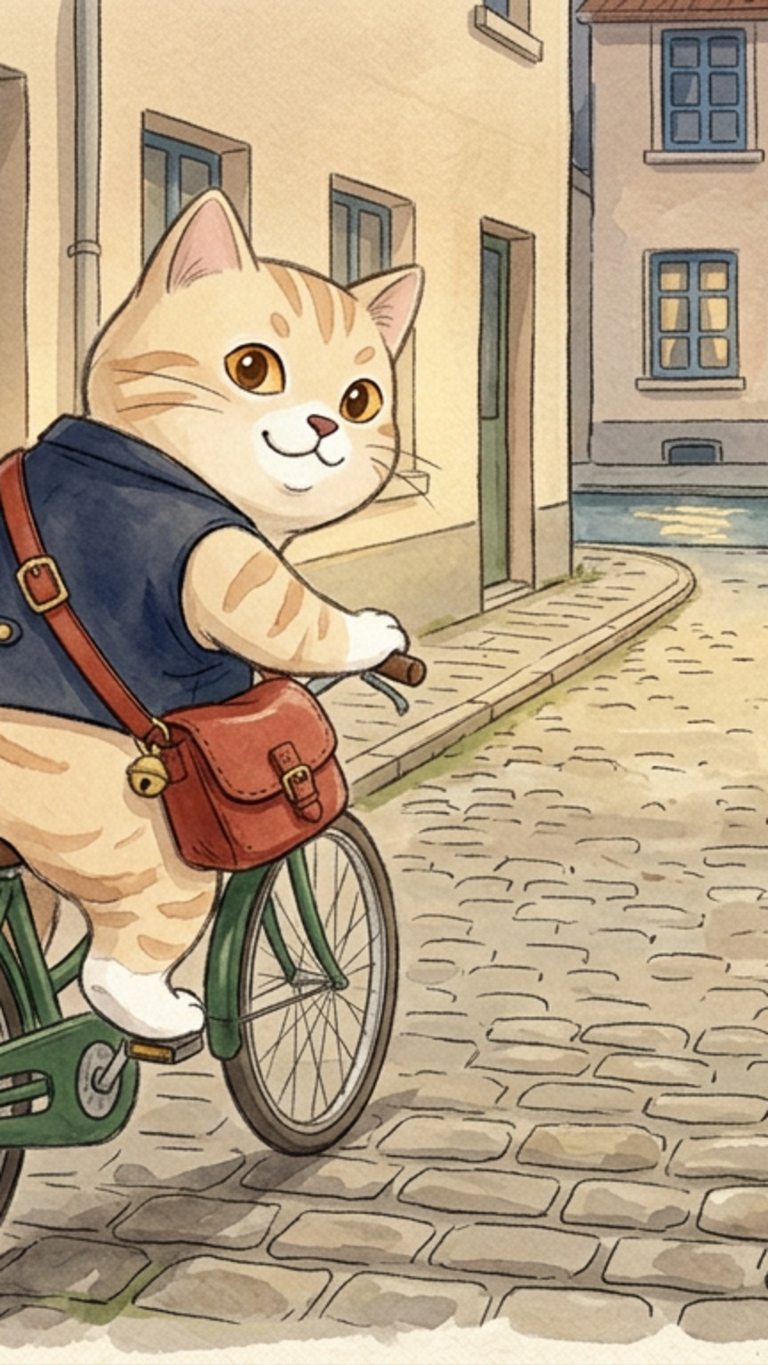
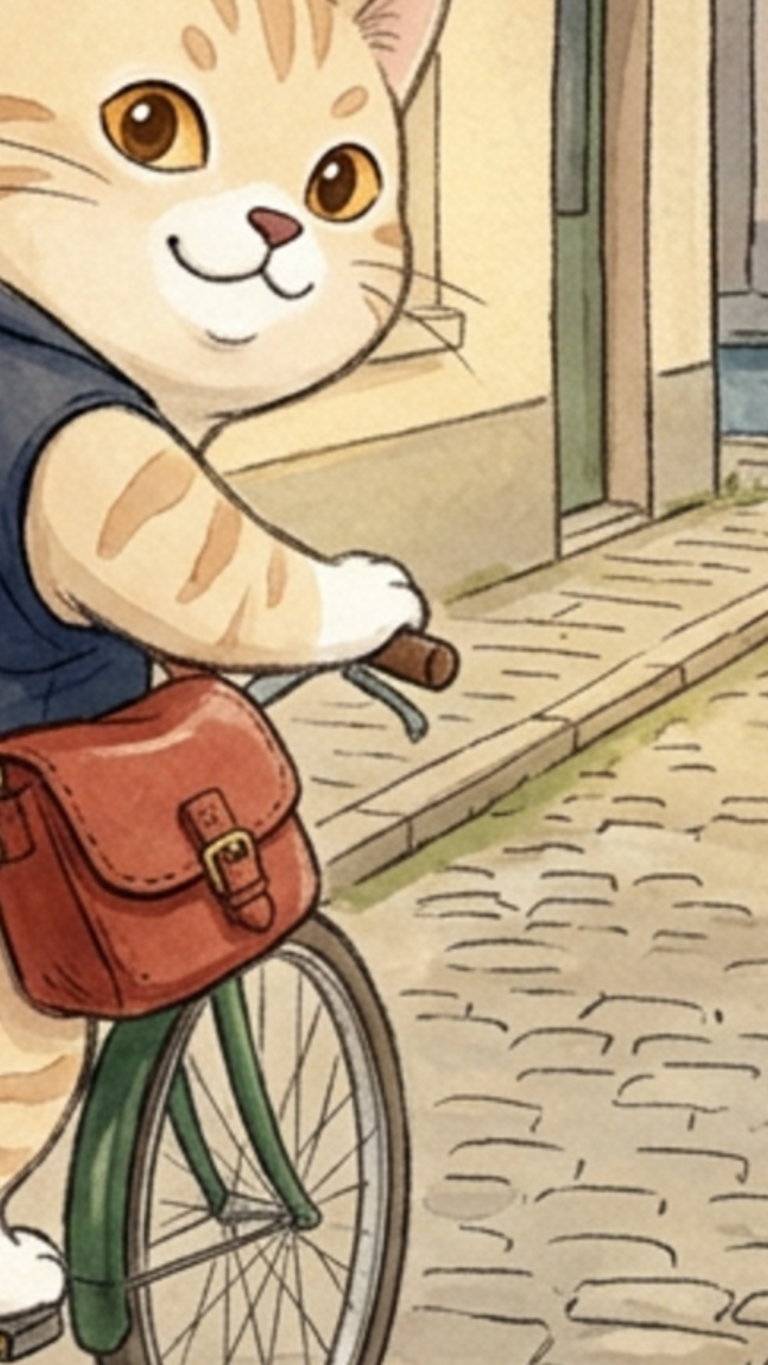
feat(production): complete visual assets for both episodes

diff --git a/sistem-konten-kreator/_produksi-aktif/kantor-pos-miso-surat-salah-alamat/CATATAN-ASSET.md b/sistem-konten-kreator/_produksi-aktif/kantor-pos-miso-surat-salah-alamat/CATATAN-ASSET.md
@@ -1,28 +1,28 @@
 # Catatan Aset — kantor-pos-miso-surat-salah-alamat
 
-**Tahap:** 5 — Generate/Acquire Assets (parsial)  
-**Tanggal:** 2026-09-13 lokal / 2026-09-12 UTC  
-**Sumber:** prompt + referensi dari `breakdown-output.md`; seluruh aset sudah dicrop ke 9:16 portrait 768×1365 menggunakan ImageMagick setelah hasil generator keluar landscape.
+**Tahap:** 5 — Generate/Acquire Assets (selesai; menunggu G1)  
+**Tanggal:** 2026-09-13 lokal  
+**Sumber:** prompt + referensi dari `breakdown-output.md`; hasil generator diaudit dan dinormalisasi ke portrait 9:16 `768×1365` menggunakan ImageMagick.
 
 ## Aset tersimpan
 
-| File | Ukuran final | SHA-256 (12) | Audit awal |
+| File | Ukuran final | SHA-256 (12) | Audit |
 |---|---:|---|---|
-| `A-S1-kantor-pos-amplop.png` | 768×1365 | `bf307b08b648` | `tersimpan` |
-| `A-S2-laci-surat.png` | 768×1365 | `8f86882b9c86` | `tersimpan` |
-| `A-S3-rumah-no18.png` | 768×1365 | `4d9a896da4c7` | `tersimpan` |
-| `A-S4-cap-dan-kanal.png` | 768×1365 | `dbca7cba5762` | `tersimpan` |
-| `A-S5-jembatan-kanal.png` | 768×1365 | `dd96d6bdb243` | `tersimpan` |
-| `A-S6-pintu-jendela-biru.png` | 768×1365 | `cc9c340c47c7` | `tersimpan` |
-| `A-S7-pulang-senja.png` | 768×1365 | `17a3dc6866a4` | `tersimpan` |
+| `A-S1-kantor-pos-amplop.png` | 768×1365 | `822a63e69358` | `Lolos audit awal` |
+| `A-S2-laci-surat.png` | 768×1365 | `a83e7209c55e` | `Lolos audit awal` |
+| `A-S3-rumah-no18.png` | 768×1365 | `e0cf8272b089` | `Lolos audit awal` |
+| `A-S4-cap-dan-kanal.png` | 768×1365 | `4203f8ed13e5` | `Lolos audit awal` |
+| `A-S5-jembatan-kanal.png` | 768×1365 | `149bc0a0bc05` | `Lolos audit awal` |
+| `A-S6-pintu-jendela-biru.png` | 768×1365 | `689018ee0f58` | `Lolos audit awal` |
+| `A-S7-pulang-senja.png` | 768×1365 | `14108972a8e6` | `Lolos audit awal` |
 
-## Audit awal
+## Audit visual
 
-- Semua file tersimpan sebagai PNG dan memakai referensi Bank Konsistensi Visual yang ditetapkan pada breakdown.
-- Tidak ditemukan logo/merek nyata atau kekerasan/horror pada aset yang tersimpan. Tulisan/label yang terlihat pada hasil generator diperlakukan sebagai tidak boleh terbaca; B-S4 v1 ditolak dan tidak dipakai.
-- A-S6 sudah lolos identitas visual tetapi framing crop portrait memotong sebagian tubuh Miso di tepi kanan; perlu ditinjau/regenerate sebelum G1 Tahap 5.
-- Tidak ada aset tertunda pada episode ini.
+- Identitas Miso, palet, properti utama, dan setting Kota Kanala konsisten. A-S6 versi final menempatkan Miso dan kedua Tipe B tetap terlihat dalam crop portrait.
+- Tidak ada logo/merek nyata, horror, kekerasan, atau teks terbaca yang dipakai sebagai elemen cerita. Tulisan pada surat, tanggal, dan alamat tetap tidak diandalkan secara visual.
+- A-S6 versi awal ditandai framing kurang baik; digenerate ulang dengan komposisi portrait-safe dan dipakai sebagai versi final.
+- Semua hasil final tersimpan di folder `assets/`; tidak ada aset tertunda.
 
 ## Status G1 Tahap 5
 
-Belum diminta. G1 baru diajukan setelah seluruh 14 aset tersedia, diaudit, dan framing portrait/regenerasi yang diperlukan selesai.
+Belum diminta. G1 akan diajukan setelah pemilik meninjau paket aset lengkap ini; G1 berlaku untuk menerima/regenerate aset, bukan G2 final atau G3 merge.

diff --git a/sistem-konten-kreator/_produksi-aktif/kantor-pos-miso-surat-terlambat-30-tahun/CATATAN-ASSET.md b/sistem-konten-kreator/_produksi-aktif/kantor-pos-miso-surat-terlambat-30-tahun/CATATAN-ASSET.md
@@ -1,23 +1,28 @@
 # Catatan Aset — kantor-pos-miso-surat-terlambat-30-tahun
 
-**Tahap:** 5 — Generate/Acquire Assets (parsial)  
-**Tanggal:** 2026-09-13 lokal / 2026-09-12 UTC  
-**Sumber:** prompt + referensi dari `breakdown-output.md`; seluruh aset sudah dicrop ke 9:16 portrait 768×1365 menggunakan ImageMagick setelah hasil generator keluar landscape.
+**Tahap:** 5 — Generate/Acquire Assets (selesai; menunggu G1)  
+**Tanggal:** 2026-09-13 lokal  
+**Sumber:** prompt + referensi dari `breakdown-output.md`; hasil generator diaudit dan dinormalisasi ke portrait 9:16 `768×1365` menggunakan ImageMagick.
 
 ## Aset tersimpan
 
-| File | Ukuran final | SHA-256 (12) | Audit awal |
+| File | Ukuran final | SHA-256 (12) | Audit |
 |---|---:|---|---|
-| `B-S1-laci-arsip.png` | 768×1365 | `c2bc7a7bbad5` | `tersimpan` |
-| `B-S4-toko-roti.png` | 768×1365 | `b0f548043c33` | `tersimpan` |
+| `B-S1-laci-arsip.png` | 768×1365 | `48e6dd95f563` | `Lolos audit awal` |
+| `B-S2-amplop-lama.png` | 768×1365 | `de46b7140add` | `Lolos audit awal` |
+| `B-S3-jalan-toko-roti.png` | 768×1365 | `5d9bffb59252` | `Lolos audit awal` |
+| `B-S4-toko-roti.png` | 768×1365 | `f5761d66ed7e` | `Lolos audit awal` |
+| `B-S5-buka-surat.png` | 768×1365 | `481cfe904414` | `Lolos audit awal` |
+| `B-S6-roti-untuk-miso.png` | 768×1365 | `65c91b37aa96` | `Lolos audit awal` |
+| `B-S7-pulang-besok-pos.png` | 768×1365 | `24d693a72d80` | `Lolos audit awal` |
 
-## Audit awal
+## Audit visual
 
-- Semua file tersimpan sebagai PNG dan memakai referensi Bank Konsistensi Visual yang ditetapkan pada breakdown.
-- Tidak ditemukan logo/merek nyata atau kekerasan/horror pada aset yang tersimpan. Tulisan/label yang terlihat pada hasil generator diperlakukan sebagai tidak boleh terbaca; B-S4 v1 ditolak dan tidak dipakai.
-- 5 aset Episode B masih tertunda karena batas generate gambar per giliran; belum boleh meminta G1 Tahap 5.
-- Aset yang tertunda: B-S2, B-S3, B-S5, B-S6, B-S7.
+- Identitas Miso, pemilik toko roti, palet, dan properti utama konsisten. Shot 5 sengaja tanpa Miso sesuai breakdown; shot 1, 2, 3, 4, 6, 7 menampilkan Miso.
+- Tidak ada logo/merek nyata, horror, kekerasan, atau teks terbaca yang dipakai sebagai elemen cerita. Tulisan pada surat, tanggal, dan alamat tetap tidak diandalkan secara visual.
+- B-S4 versi awal ditolak karena pseudo-teks pada papan toko; versi final diregenerasi dengan fascia kosong dan dipakai.
+- Semua hasil final tersimpan di folder `assets/`; tidak ada aset tertunda.
 
 ## Status G1 Tahap 5
 
-Belum diminta. G1 baru diajukan setelah seluruh 14 aset tersedia, diaudit, dan framing portrait/regenerasi yang diperlukan selesai.
+Belum diminta. G1 akan diajukan setelah pemilik meninjau paket aset lengkap ini; G1 berlaku untuk menerima/regenerate aset, bukan G2 final atau G3 merge.

diff --git a/sistem-konten-kreator/_produksi-aktif/kantor-pos-miso-surat-terlambat-30-tahun/STATUS.md b/sistem-konten-kreator/_produksi-aktif/kantor-pos-miso-surat-terlambat-30-tahun/STATUS.md
@@ -3,17 +3,17 @@
 - **Status:** `in-progress`
 - **Channel:** `channel-kantor-pos-miso` (Kantor Pos Miso)
 - **Model konten:** Dongeng 60-90 Detik v1 (`model-konten/dongeng-60-90/brief.md`)
-- **Tahap terakhir selesai:** Tahap 5 — Generate/Acquire Assets (parsial: 2/7 aset tersimpan; G1 belum)
-- **Tahap berikutnya:** Generate B-S2, B-S3, B-S5, B-S6, B-S7 pada giliran berikutnya, audit 7 aset, lalu G1 Tahap 5.
+- **Tahap terakhir selesai:** Tahap 5 — Generate/Acquire Assets (selesai; G1 belum)
+- **Tahap berikutnya:** G1 Tahap 5; setelah aset diterima, Tahap 6 — Assembly & Publish Prep
 - **Output resmi:**
   - `ideation.md`
   - `konsep-angle.md`
   - `naskah-draft.md`
   - `breakdown-output.md`
-  - `assets/` — 2/7 aset tersimpan; sisanya mengikuti STATUS
+  - `assets/` — 7/7 aset tersimpan
 - **Sumber konteks yang dibaca:** `_sistem/01_BRAND_CORE.md` (template kosong; gap warisan), `channel-brief.md` v1 Operational, `model-konten/dongeng-60-90/brief.md` v1 Operational, `_sistem/05_CONTENT_PRODUCTION_PIPELINE.md`, `_sistem/06_PROMPT_LIBRARY.md`, 4 Bank Konsistensi Visual + `CATATAN-ASSET.md` (Reference-Ready), `arsip-naskah/indeks.md` (kosong), `arsip-naskah/indeks-karakter.md` (kosong)
 - **Sumber eksternal dipakai:** `Tidak ada`
-- **Keputusan baru:** 190 kata; satu karakter Tipe B baru dideskripsikan di `naskah-draft.md` setelah `indeks-karakter.md` dicek kosong; struktur breakdown 7 shot; Miso muncul 6/7 shot; 2 aset tersimpan; B-S4 v1 tidak dipakai; tidak ada perubahan dokumen terkunci.
+- **Keputusan baru:** 190 kata; satu karakter Tipe B; breakdown 7 shot; Miso 6/7; seluruh 7 aset tersimpan. B-S4 v1 ditolak karena pseudo-teks dan B-S4 v2 dipakai.
 - **Approval yang sudah diberikan:**
   - `G1 Tahap 1:` disetujui 2026-09-12 — Opsi 1 (`b1`)
   - `G1 Tahap 2:` disetujui 2026-09-12 — kerangka dipakai untuk lanjut ke Tahap 3
@@ -24,8 +24,8 @@
   - `G1 Tahap 5:` belum
   - `G2 konten final + metadata:` belum
   - `G3 merge:` belum
-- **Commit terakhir:** koreksi STATUS setelah Tahap 4 (SHA dicatat di `LOG_SESI_2026-09-12.md`)
+- **Commit terakhir:** commit Tahap 5 selesai (SHA dicatat di `LOG_SESI_2026-09-12.md`)
 - **PR terkait:** belum dibuat
 - **Pekerjaan belum tersimpan:** Tidak ada
-- **Risiko atau blocker:** Brand Core masih template kosong (gap sadar). Lima aset masih tertunda karena batas generate gambar per giliran. B-S4 v1 ditolak karena pseudo-teks dan sudah diregenerasi; crop portrait B-S4 tetap perlu audit framing.
-- **Waktu pembaruan:** 2026-09-13 — Tahap 5 parsial; menunggu aset lengkap dan G1
+- **Risiko atau blocker:** Brand Core masih template kosong (gap sadar). Tidak ada aset tertunda. Episode B tetap berada pada batas atas durasi; G1 Tahap 5 belum diberikan.
+- **Waktu pembaruan:** 2026-09-13 — Tahap 5 selesai; menunggu G1

diff --git a/_log-sesi/LOG_SESI_2026-09-12.md b/_log-sesi/LOG_SESI_2026-09-12.md
@@ -4,14 +4,14 @@
 
 - **Keadaan:** `OPEN`
 - **Scope:** `sistem-konten-kreator/` — produksi dua konten berbeda untuk channel `Kantor Pos Miso`, model `Dongeng 60-90 Detik`, Miso sebagai karakter utama pada keduanya.
-- **Di mana kita sekarang:** Tahap 5 parsial. Sembilan dari 14 aset tersimpan dan sudah dicrop portrait; lima aset Episode B tertunda karena limit generate gambar per giliran. G1 Tahap 5 belum diminta.
+- **Di mana kita sekarang:** Tahap 5 selesai untuk kedua episode: 14/14 aset portrait tersimpan dan diaudit awal. G1 Tahap 5 belum diminta; paket aset lengkap menunggu keputusan pemilik.
 - **Sudah disepakati:**
   - Produksi 2 episode berbeda, mengikuti pipeline standar + override model; Miso wajib tampil di setiap episode dan referensi visual wajib dipakai pada tahap aset.
   - Pelihara log sesi, commit + push setiap tahap yang menghasilkan informasi, tanya eksplisit di setiap gerbang approval, dan akhiri dengan PR tanpa auto-merge.
 - **Masih terbuka / tertunda:**
-  - Lima aset Episode B yang tertunda; audit framing semua aset; G1 Tahap 5 untuk kedua episode.
+  - G1 Tahap 5 untuk Episode A dan Episode B.
   - Metadata, G2 final, dan G3 merge.
-- **Langkah berikutnya:** Lanjut generate B-S2/B-S3/B-S5/B-S6/B-S7 pada giliran berikutnya; perbaiki A-S6 bila perlu; lalu audit lengkap dan minta G1 Tahap 5.
+- **Langkah berikutnya:** Minta G1 Tahap 5 untuk paket 14 aset; setelah disetujui lanjut Tahap 6 secara paralel.
 
 ## Fakta Entry Point dan konteks wajib
 
@@ -91,3 +91,9 @@
 - **Audit:** Episode B S4 v1 ditolak karena pseudo-teks pada papan toko dan langsung diregenerasi dengan fascia kosong; versi v2 yang tersimpan tidak memiliki tulisan terbaca. A-S6 lolos identitas Miso tetapi crop portrait memotong sebagian tubuh di tepi kanan dan ditandai untuk perbaikan/review.
 - **Kendala:** Lima panggilan generate berikutnya gagal karena sistem mencapai limit 10 image generations per giliran. Tidak ada klaim G1 Tahap 5; lima aset Episode B akan dilanjutkan pada giliran berikutnya.
 - **Hasil:** Aset parsial dan catatan audit dipush; status tetap `in-progress`.
+
+### 00:35 UTC — Tahap 5 selesai: 14/14 aset
+
+- **Agent:** Melanjutkan lima aset Episode B (B-S2, B-S3, B-S5, B-S6, B-S7) setelah limit giliran sebelumnya reset. A-S6 juga diregenerasi sekali karena crop awal memotong subjek; versi final portrait-safe menampilkan Miso dan kedua Tipe B dengan jelas.
+- **Audit:** Semua 14 aset final berukuran 768×1365. B-S4 versi final tetap versi regen tanpa pseudo-teks; tidak ada logo/merek nyata, horror, kekerasan, atau teks terbaca yang dipakai sebagai narasi. Hash dan status dicatat dalam dua `CATATAN-ASSET.md`.
+- **Hasil:** Tahap 5 selesai secara teknis, tetapi G1 Tahap 5 belum diminta. Status dan paket aset lengkap akan dipush sebelum gerbang.

diff --git a/sistem-konten-kreator/_produksi-aktif/kantor-pos-miso-surat-salah-alamat/STATUS.md b/sistem-konten-kreator/_produksi-aktif/kantor-pos-miso-surat-salah-alamat/STATUS.md
@@ -3,17 +3,17 @@
 - **Status:** `in-progress`
 - **Channel:** `channel-kantor-pos-miso` (Kantor Pos Miso)
 - **Model konten:** Dongeng 60-90 Detik v1 (`model-konten/dongeng-60-90/brief.md`)
-- **Tahap terakhir selesai:** Tahap 5 — Generate/Acquire Assets (parsial: 7/7 aset tersimpan; G1 belum)
-- **Tahap berikutnya:** Selesaikan audit framing/regenerate bila perlu, lalu G1 Tahap 5.
+- **Tahap terakhir selesai:** Tahap 5 — Generate/Acquire Assets (selesai; G1 belum)
+- **Tahap berikutnya:** G1 Tahap 5; setelah aset diterima, Tahap 6 — Assembly & Publish Prep
 - **Output resmi:**
   - `ideation.md`
   - `konsep-angle.md`
   - `naskah-draft.md`
   - `breakdown-output.md`
-  - `assets/` — 7/7 aset tersimpan; sisanya mengikuti STATUS
+  - `assets/` — 7/7 aset tersimpan
 - **Sumber konteks yang dibaca:** `_sistem/01_BRAND_CORE.md` (template kosong; gap warisan), `channel-brief.md` v1 Operational, `model-konten/dongeng-60-90/brief.md` v1 Operational, `_sistem/05_CONTENT_PRODUCTION_PIPELINE.md`, `_sistem/06_PROMPT_LIBRARY.md`, 4 Bank Konsistensi Visual + `CATATAN-ASSET.md` (Reference-Ready), `arsip-naskah/indeks.md` (kosong), `arsip-naskah/indeks-karakter.md` (kosong)
 - **Sumber eksternal dipakai:** `Tidak ada`
-- **Keputusan baru:** 185 kata; dua karakter Tipe B baru dideskripsikan di `naskah-draft.md` setelah `indeks-karakter.md` dicek kosong; struktur breakdown 7 shot; Miso muncul 7/7 shot; 7 aset tersimpan; B-S4 v1 tidak dipakai; tidak ada perubahan dokumen terkunci.
+- **Keputusan baru:** 185 kata; dua karakter Tipe B; breakdown 7 shot; Miso 7/7; seluruh 7 aset tersimpan dan A-S6 sudah diregenerasi untuk framing portrait yang lebih baik.
 - **Approval yang sudah diberikan:**
   - `G1 Tahap 1:` disetujui 2026-09-12 — Opsi 1 (`a1`)
   - `G1 Tahap 2:` disetujui 2026-09-12 — kerangka dipakai untuk lanjut ke Tahap 3
@@ -24,8 +24,8 @@
   - `G1 Tahap 5:` belum
   - `G2 konten final + metadata:` belum
   - `G3 merge:` belum
-- **Commit terakhir:** koreksi STATUS setelah Tahap 4 (SHA dicatat di `LOG_SESI_2026-09-12.md`)
+- **Commit terakhir:** commit Tahap 5 selesai (SHA dicatat di `LOG_SESI_2026-09-12.md`)
 - **PR terkait:** belum dibuat
 - **Pekerjaan belum tersimpan:** Tidak ada
-- **Risiko atau blocker:** Brand Core masih template kosong (gap sadar). A-S6 framing portrait memotong sebagian tubuh Miso di tepi kanan; perlu diperbaiki atau disetujui ulang sebelum G1. Batas generate gambar per giliran tercapai sebelum Episode B selesai.
-- **Waktu pembaruan:** 2026-09-13 — Tahap 5 parsial; menunggu aset lengkap dan G1
+- **Risiko atau blocker:** Brand Core masih template kosong (gap sadar). Tidak ada aset tertunda. Tetap perlu G1 Tahap 5 sebelum menganggap paket aset diterima.
+- **Waktu pembaruan:** 2026-09-13 — Tahap 5 selesai; menunggu G1
